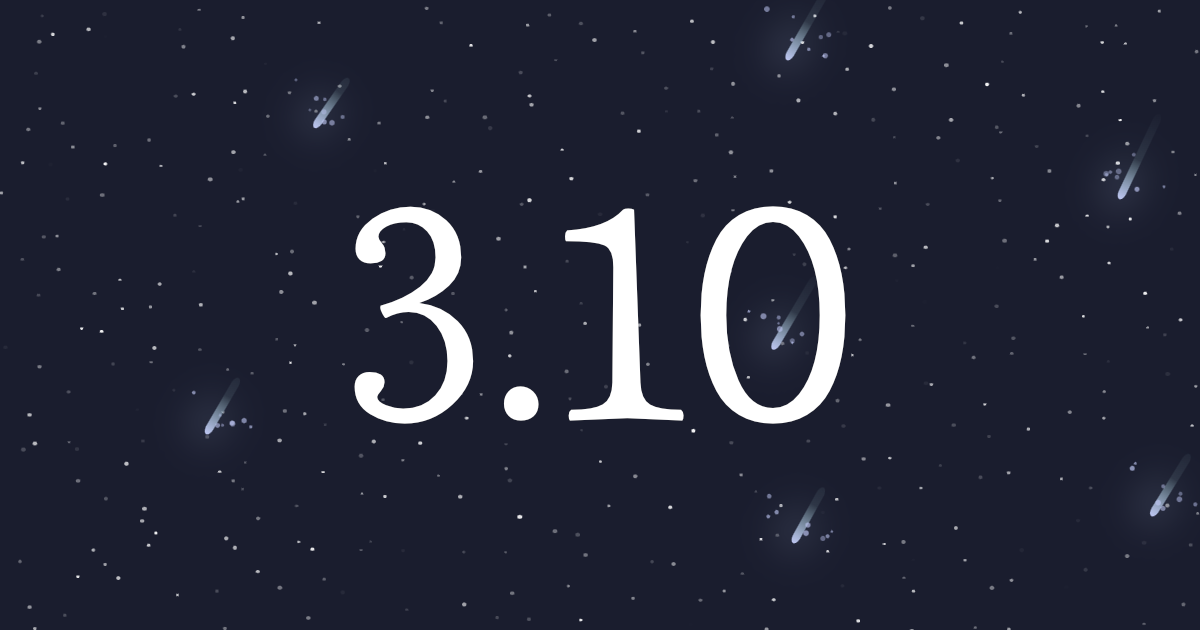
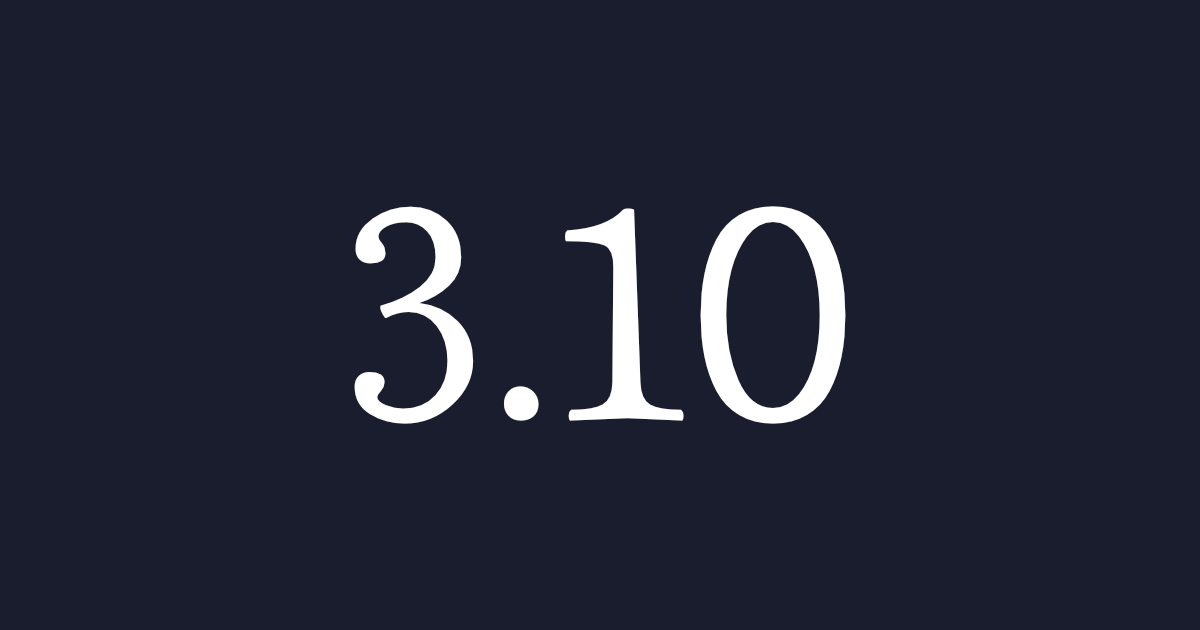
docs(blog): add blog post for v3.13.0

diff --git a/src/components/ui/navbar.tsx b/src/components/ui/navbar.tsx
@@ -113,7 +113,9 @@ export default function Navbar({ variant, className, links }: NavbarProps) {
                   target="_blank"
                 >
                   <SiNpm size={16} />
-                  <span className="tw-b">v{pkg.version}</span>
+                  <span className="tw-b">
+                    v{pkg.devDependencies.yummacss.replace("^", "")}
+                  </span>
                 </Link>
                 <Link
                   href="https://github.com/yummacss/yummacss"

diff --git a/src/utils/blog.ts b/src/utils/blog.ts
@@ -30,8 +30,9 @@ const blogSlugs = [
   "yummacss-3.9.0",
   "yummacss-3.10.0",
   "yummacss-3.11.0",
-  "yummacss-3.12.0",
   "yummacss-intellisense",
+  "yummacss-3.12.0",
+  "yummacss-3.13.0",
 ];
 
 export function getAllBlogSlugs(): string[] {